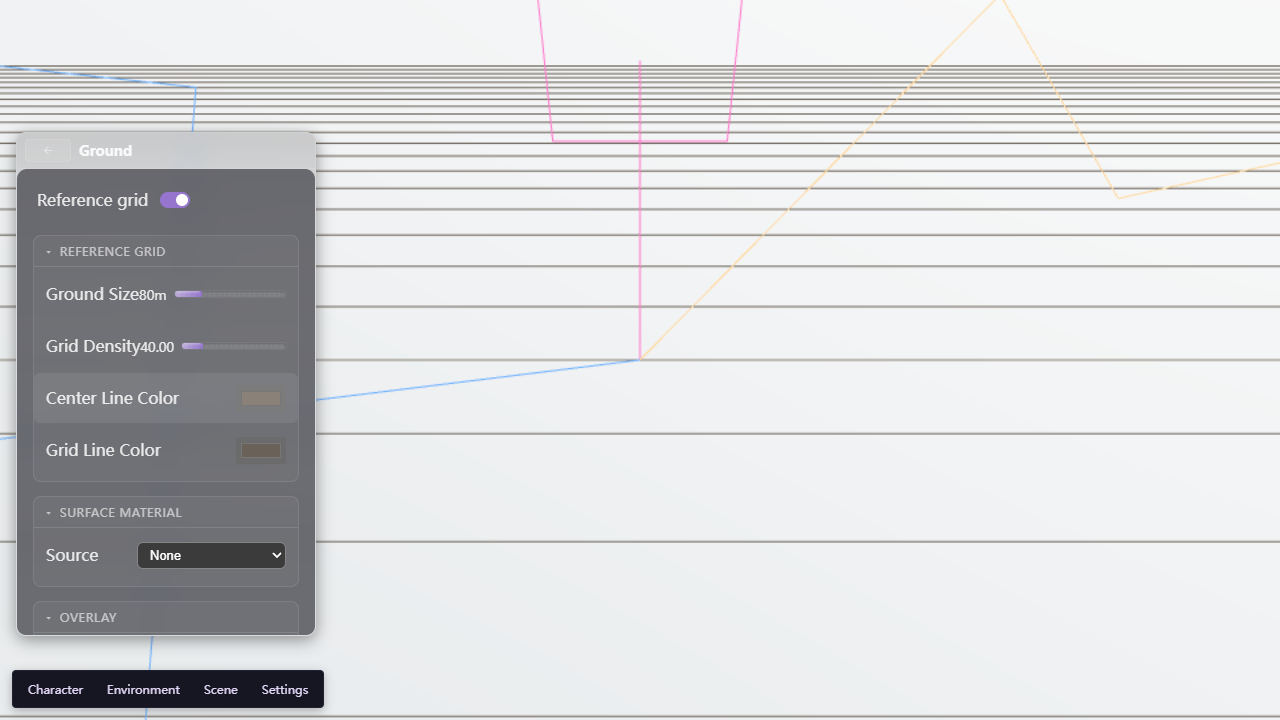
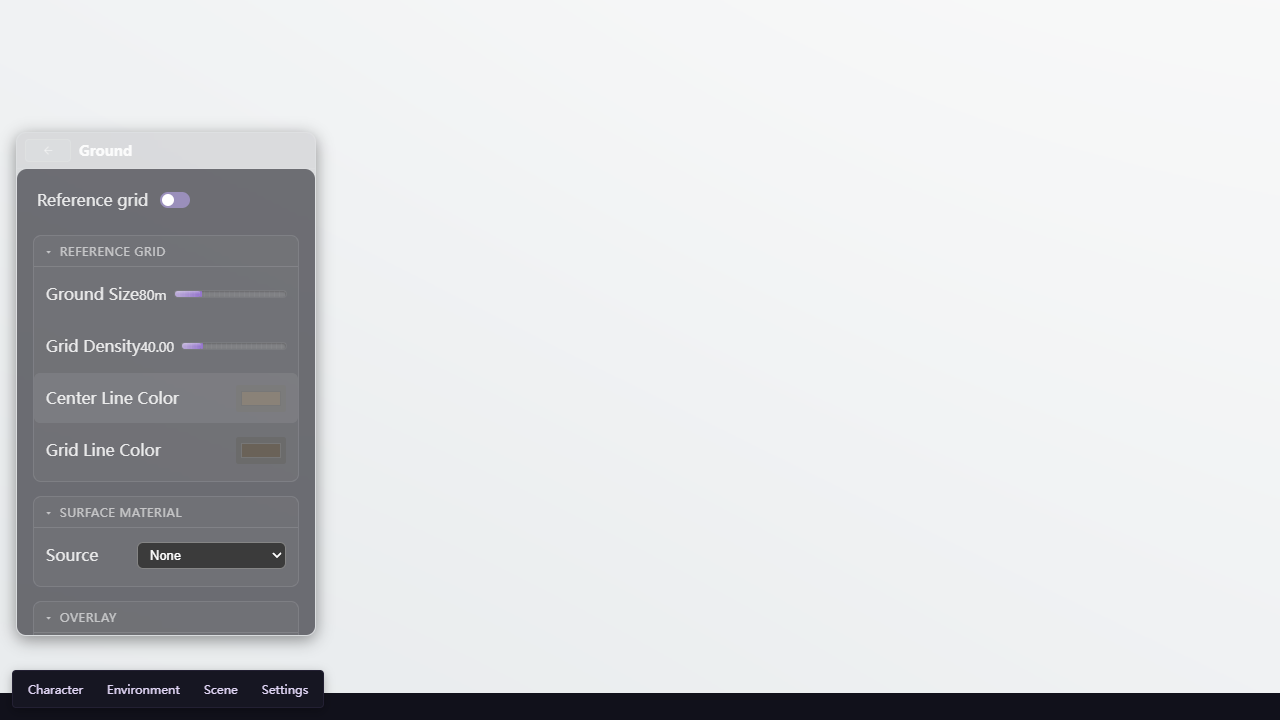
feat(ground): 参考网格默认关——groundGridVisible 默认 true→false（用户拍板「有地面还花」）：solid 承接面已承担 y=0 锚点，开箱网格线沦为装饰叠加；菜单开关只增不减，旧存档缺键随新默认。单测（默认关/旧存档/G-8 偏离值）+ e2e 探针断言翻转，截图基线再生，知识卡同步（已知遗留 1 进展 + 不变量 17）

diff --git a/frontend/src/preview-3d/caps/ground-capability.test.ts b/frontend/src/preview-3d/caps/ground-capability.test.ts
@@ -35,7 +35,7 @@ function setMode(cap: GroundCapability, mode: GroundSurfaceMode): void {
 describe("GroundCapability", () => {
   beforeEach(() => { resetEnvState(); });
 
-  it("apply 挂入场景（GridHelper + 名称 ysm-ground），默认可见", () => {
+  it("apply 挂入场景（GridHelper + 名称 ysm-ground），默认不亮（2026-10-04 默认翻转）", () => {
     const scene = new THREE.Scene();
     const cap = new GroundCapability({ scene });
     expect(cap.getVisible()).toBe(true);
@@ -43,7 +43,8 @@ describe("GroundCapability", () => {
     const grid = scene.getObjectByName("ysm-ground") as THREE.GridHelper | undefined;
     expect(grid).toBeDefined();
     expect(grid).toBeInstanceOf(THREE.GridHelper);
-    expect(grid!.visible).toBe(true);
+    // 网格对象恒挂场景（可被菜单开关打开），但 groundGridVisible 默认 false → 不可见
+    expect(grid!.visible).toBe(false);
   });
 
   it("setVisible 切换 + getVisible 同步", () => {
@@ -1124,12 +1125,12 @@ describe("GroundCapability — 参考网格独立开关（groundGridVisible）",
     expect(cap.getGridVisible()).toBe(false);
   });
 
-  it("默认开启：参考网格可见（与历史行为一致，开关只增不减）", () => {
+  it("默认关闭（2026-10-04 翻转）：开箱参考网格不亮——实体承接面（默认 solid）已承担 y=0 锚点；开关只增不减，手动可开", () => {
     const scene = new THREE.Scene();
     const cap = new GroundCapability({ scene });
     cap.apply();
-    expect(cap.getGridVisible()).toBe(true);
-    expect((scene.getObjectByName("ysm-ground") as THREE.Object3D).visible).toBe(true);
+    expect(cap.getGridVisible()).toBe(false);
+    expect((scene.getObjectByName("ysm-ground") as THREE.Object3D).visible).toBe(false);
   });
 
   it("setGridVisible(false) 只隐参考网格：表面材质层与叠加层不受影响", () => {
@@ -1190,7 +1191,7 @@ describe("GroundCapability — 参考网格独立开关（groundGridVisible）",
     expect((scene.getObjectByName("ysm-ground") as THREE.Object3D).visible).toBe(false);
   });
 
-  it("旧存档缺 groundGridVisible → 回退默认 true（保守兜底）", () => {
+  it("旧存档缺 groundGridVisible → 回退默认 false（2026-10 翻转后缺键随新默认，旧档也进默认关画面）", () => {
     const scene = new THREE.Scene();
     localStorage.setItem(
       "ysm-scene-cap-ground",
@@ -1199,8 +1200,8 @@ describe("GroundCapability — 参考网格独立开关（groundGridVisible）",
     const cap = new GroundCapability({ scene });
     cap.loadState();
     cap.apply();
-    expect(cap.getGridVisible()).toBe(true);
-    expect((scene.getObjectByName("ysm-ground") as THREE.Object3D).visible).toBe(true);
+    expect(cap.getGridVisible()).toBe(false);
+    expect((scene.getObjectByName("ysm-ground") as THREE.Object3D).visible).toBe(false);
   });
 });
 
@@ -1267,7 +1268,8 @@ describe("GroundCapability — 恢复路径来源纪律（锐评 F-2）", () => 
     // 每键一个「≠ schema 默认」的偏离值（合法域内）——新键未列入即 fail 提示登记
     const DEVIATION: Record<string, unknown> = {
       groundVisible: false,
-      groundGridVisible: false,
+      // 2026-10-04 默认翻转后偏离值须 ≠ 新默认（false 已等于默认，自失能被锁点名）
+      groundGridVisible: true,
       groundSourceKind: "canvas",
       groundCanvasStyle: "marble",
       groundMaterialPreset: "custom",

diff --git a/frontend/e2e-web/menu-3d-session.spec.ts b/frontend/e2e-web/menu-3d-session.spec.ts
@@ -132,7 +132,7 @@ test.describe("真实 3D 会话内的菜单", () => {
     expect(state.controls, "真 3D 会话内后处理面板应渲染出 cap 控件").toBeGreaterThan(0);
   });
 
-  test("地面自证：默认 sourceKind=solid → 网格可见、实体承接面默认可见（开箱即认得出地面）", async ({
+  test("地面自证：默认 sourceKind=solid → 实体承接面默认可见、参考网格默认不亮（2026-10-04 翻转，开箱即认得出地面）", async ({
     page,
   }) => {
     test.slow(); // 会话启动 + 菜单下钻 + 两次截图，超 20s 默认上限（同 spec 前两用例贴近上限）
@@ -152,10 +152,10 @@ test.describe("真实 3D 会话内的菜单", () => {
     expect(probe, "地面探针应返回结构化状态").toMatchObject({
       sourceKind: "solid", // 默认开箱即有实体承接面（2026-10 收口）
       surfaceVisible: true, // 默认实体承接面可见 —— 地面一眼认得出
-      gridVisible: true, // 参考网格默认可见 ——「地面在哪」的锚点
+      gridVisible: false, // 2026-10-04 默认翻转：承接面已承担 y=0 锚点，参考网格默认不亮（菜单可手动开）
     });
 
-    // 截图回看：默认场景即有实体承接面（灰棕）+ 网格线，与探针快照一致。
+    // 截图回看：默认场景有实体承接面（灰棕）、无参考网格线，与探针快照一致。
     await page.screenshot({ path: "e2e-web/_shots/3d-ground-default.png" });
 
     // ── 关闭路径：经真实菜单把地面来源切到 none → 探针应翻转 surfaceVisible=false ──
@@ -177,8 +177,8 @@ test.describe("真实 3D 会话内的菜单", () => {
     );
     expect(after, "切换 none 后探针应仍可读").toMatchObject({
       sourceKind: "none",
-      surfaceVisible: false, // 实体承接面已关 —— 回到「只留网格线」纯净态
-      gridVisible: true,
+      surfaceVisible: false, // 实体承接面已关 —— 回到无表面层的纯净态
+      gridVisible: false, // 参考网格默认关（本用例未动过菜单开关），none 态 = 无表面亦无网格线
     });
     await page.screenshot({ path: "e2e-web/_shots/3d-ground-none.png" });
   });

diff --git a/frontend/src/preview-3d/state/env-state-schema.ts b/frontend/src/preview-3d/state/env-state-schema.ts
@@ -111,7 +111,10 @@ export const ENV_STATE_SCHEMA = {
   // 2026-09-19：参考网格（GridHelper 层）独立开关——历史遗留（知识卡「已知遗留 1」）是
   // 网格层与表面材质层共用 groundVisible，用户选了纯色/贴图材质也关不掉底下那张 y=0 参考网格，
   // 且菜单无任何网格参数出口。现拆出单轴：网格显隐 = enabled && groundVisible && groundGridVisible。
-  groundGridVisible: { type: "boolean", default: true, group: "ground" },
+  // 2026-10-04 默认翻转（用户拍板「有地面还花」）：默认源翻 solid 后实体承接面已承担
+  // 「地面在 y=0」的视觉锚点，网格线开箱即亮沦为装饰叠加 → default: false。开关保留在
+  // 菜单（只增不减），旧存档缺键回退亦随新默认（知识卡 ground_surface_spec 已知遗留 1）。
+  groundGridVisible: { type: "boolean", default: false, group: "ground" },
   // ADR-249 §2.1 拆轴：来源轴（颜色从哪来）。替代原单枚举 groundMatSource。
   // 默认 "solid"（2026-10 用户反馈收口）：开箱即有实体承接面，新人/AI/e2e 一眼认得地面在 y=0；
   // 旧默认 "none" 仅留网格线、易被误认作「地面=天空」（见 ground_surface_spec 不变量 17）。

diff --git a/frontend/src/preview-3d/caps/ground-capability.ts b/frontend/src/preview-3d/caps/ground-capability.ts
@@ -805,7 +805,7 @@ export class GroundCapability implements SceneCapability {
           boolean: (v) => this.setVisible(v, RESTORE_SOURCE),
         },
         groundGridVisible: {
-          // 同 groundVisible；旧存档缺该键 → 保持 schema 默认 true
+          // 同 groundVisible；旧存档缺该键 → 保持 schema 默认 false（2026-10-04 默认翻转）
           boolean: (v) => this.setGridVisible(v, RESTORE_SOURCE),
         },
         groundSourceKind: oneOf(GROUND_SOURCE_KINDS, (v) =>
